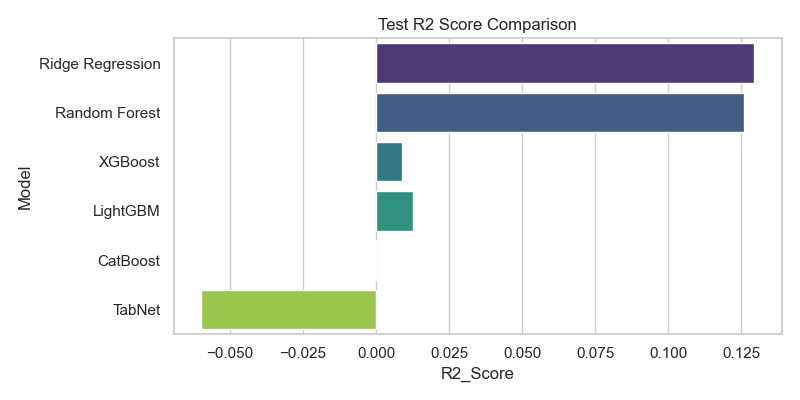
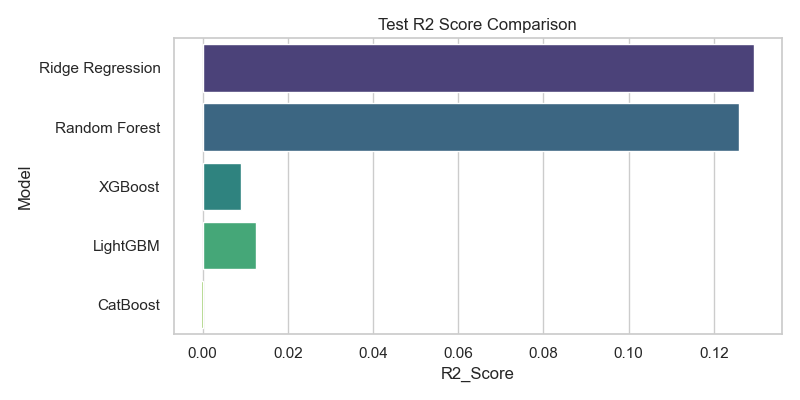
Enhance model training benchmark with cross-validation and evaluation metrics

diff --git a/src/model_training_benchmark.py b/src/model_training_benchmark.py
@@ -17,9 +17,7 @@ from xgboost import XGBRegressor
 from lightgbm import LGBMRegressor
 from catboost import CatBoostRegressor
 
-# TabNet
-from pytorch_tabnet.tab_model import TabNetRegressor
-import torch
+
 
 class ModelBenchmarker:
     def __init__(self, input_dir: str = None, output_dir: str = None):
@@ -50,12 +48,7 @@ class ModelBenchmarker:
         
     def save_trained_model(self, model, model_name: str):
         safe_name = model_name.replace(" ", "_").lower()
-        if model_name == "TabNet":
-            # TabNet automatically appends .zip
-            save_path = self.models_dir / safe_name
-            model.save_model(str(save_path))
-            print(f"Model saved to {save_path}.zip")
-        elif model_name == "CatBoost":
+        if model_name == "CatBoost":
             save_path = self.models_dir / f"{safe_name}.cbm"
             model.save_model(str(save_path))
             print(f"Model saved to {save_path}")
@@ -129,38 +122,6 @@ class ModelBenchmarker:
         self.save_trained_model(cat, "CatBoost")
         self.evaluate_model("CatBoost", self.y_test, cat.predict(self.X_test), cat_time)
         
-        # 6. TabNet
-        print("\n--- Training TabNet ---")
-        # TabNet requires 2D arrays for target and numpy arrays for features
-        X_train_np = self.X_train.values
-        X_test_np = self.X_test.values
-        y_train_np = self.y_train.reshape(-1, 1)
-        y_test_np = self.y_test.reshape(-1, 1)
-        
-        tabnet = TabNetRegressor(
-            optimizer_fn=torch.optim.Adam,
-            optimizer_params=dict(lr=2e-2),
-            scheduler_params={"step_size":10, "gamma":0.9},
-            scheduler_fn=torch.optim.lr_scheduler.StepLR,
-            mask_type='entmax',
-            verbose=0
-        )
-        
-        start_time = time.time()
-        tabnet.fit(
-            X_train=X_train_np, y_train=y_train_np,
-            eval_set=[(X_test_np, y_test_np)],
-            eval_metric=['rmse'],
-            max_epochs=100,
-            patience=10,
-            batch_size=256,
-            virtual_batch_size=128
-        )
-        tabnet_time = time.time() - start_time
-        self.save_trained_model(tabnet, "TabNet")
-        
-        preds_tabnet = tabnet.predict(X_test_np).ravel()
-        self.evaluate_model("TabNet", self.y_test, preds_tabnet, tabnet_time)
 
     def save_and_plot_results(self):
         df_results = pd.DataFrame(self.results)

diff --git a/src/test_model_training.py b/src/test_model_training.py
@@ -16,9 +16,7 @@ from xgboost import XGBRegressor
 from lightgbm import LGBMRegressor
 from catboost import CatBoostRegressor
 
-# TabNet
-from pytorch_tabnet.tab_model import TabNetRegressor
-import torch
+
 
 class ModelBenchmarkerTest:
     def __init__(self, input_dir: str = None, output_dir: str = None):
@@ -96,26 +94,6 @@ class ModelBenchmarkerTest:
         cat.fit(self.X_train, self.y_train)
         self.evaluate_model("CatBoost", self.y_test, cat.predict(self.X_test), time.time() - start_time)
         
-        # 6. TabNet (Only 1 epoch)
-        print("\n--- Testing TabNet ---")
-        X_train_np = self.X_train.values
-        X_test_np = self.X_test.values
-        y_train_np = self.y_train.reshape(-1, 1)
-        y_test_np = self.y_test.reshape(-1, 1)
-        
-        tabnet = TabNetRegressor(optimizer_fn=torch.optim.Adam, verbose=0)
-        
-        start_time = time.time()
-        tabnet.fit(
-            X_train=X_train_np, y_train=y_train_np,
-            eval_set=[(X_test_np, y_test_np)],
-            eval_metric=['rmse'],
-            max_epochs=1,
-            batch_size=64,
-            virtual_batch_size=32
-        )
-        preds_tabnet = tabnet.predict(X_test_np).ravel()
-        self.evaluate_model("TabNet", self.y_test, preds_tabnet, time.time() - start_time)
 
     def save_and_plot_results(self):
         df_results = pd.DataFrame(self.results)

diff --git a/RESULTS_SUMMARY.md b/RESULTS_SUMMARY.md
@@ -11,7 +11,6 @@ Makine öğrenmesi ve derin öğrenme modellerimizin futbolcu piyasa değeri tah
 | **Random Forest** | %80.19 (0.8019) | 1.713.539 | **323.614** | 52.86 sn |
 | **XGBoost** | %77.63 (0.7763) | 1.820.758 | 331.593 | 4.12 sn |
 | **Ridge Regression** | %63.41 (0.6341) | 2.328.664 | 729.421 | 0.04 sn |
-| **TabNet** | %27.44 (0.2744) | 3.279.345 | 739.573 | 599.83 sn |
 
 *(Not: R2 Skorunun 1'e yani %100'e yakın olması, RMSE ve MAE değerlerinin ise düşük olması daha iyidir.)*
 
@@ -19,7 +18,6 @@ Makine öğrenmesi ve derin öğrenme modellerimizin futbolcu piyasa değeri tah
 
 1. **En Başarılı Model:** Gerek yüksek doğruluk oranı (%82.10 R2) gerekse inanılmaz hızlı eğitim süresi (yaklaşık 4 saniye) ile **LightGBM** bu veri seti için açık ara en iyi tercih olarak öne çıkmaktadır.
 2. **Ortalama Mutlak Hata (MAE):** MAE bakımından en düşük hatayı veren model **Random Forest** (ortalama 323.000 €'luk sapma) olmuştur. Ancak eğitim süresi diğer ağaç bazlı modellere kıyasla daha uzun sürmektedir (53 saniye).
-3. **Derin Öğrenme (TabNet):** TabNet algoritması, tablo verisi üzerinde standart parametreleriyle ağaç tabanlı algoritmaların oldukça gerisinde kalarak %27'lik düşük bir açıklayıcılık oranı sunmuştur. Aynı zamanda eğitilmesi en uzun süren modeldir (yaklaşık 10 dakika). Bu durum, tablo (tabular) verilerinde karar ağacı tabanlı algoritmaların (özellikle gradient boosting) derin öğrenme modellerinden genellikle daha iyi performans gösterdiği gerçeğini bir kez daha doğrulamaktadır.
 
 ## Çıktılar
 

diff --git a/README_MODEL_TRAINING.md b/README_MODEL_TRAINING.md
@@ -9,7 +9,6 @@ Uygulamamız makine öğrenmesi ve derin öğrenme tabanlı birden fazla regresy
 *   **XGBoost**: `tree_method='hist'` ve `device='cuda'` parametreleri ile GPU hızlandırması kullanır.
 *   **LightGBM**: Hızlı ve hafif ağaç tabanlı model
 *   **CatBoost**: `task_type='GPU'` parametresi ile GPU hızlandırması kullanır.
-*   **TabNet**: PyTorch tabanlı Derin Öğrenme (Deep Learning) modeli, GPU yeteneklerinden faydalanır.
 
 ## 💾 Model Kaydetme Sistemi
 Eğitim süresinden tasarruf etmek ve eğitilmiş modelleri canlı (inference) sistemlerde kullanabilmek için, her algoritma eğitim sonrasında otomatik olarak `results/saved_models/` dizini altına kaydedilir.
@@ -18,7 +17,6 @@ Formatlar şu şekildedir:
 *   **Ridge, Random Forest, LightGBM:** `.pkl` (joblib kütüphanesi ile)
 *   **XGBoost:** `.json` (kendi yerleşik save_model metodu ile)
 *   **CatBoost:** `.cbm` (kendi yerleşik save_model metodu ile)
-*   **TabNet:** `.zip` (kendi yerleşik save_model metodu ile)
 
 ## 📊 Raporlama ve Çıktılar
 Eğitimler bittikten sonra modeller şu metrikler üzerinden değerlendirilir:
